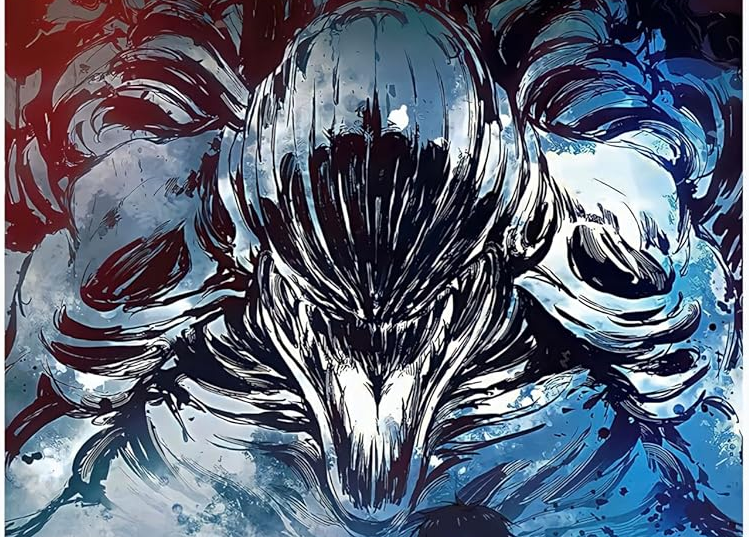
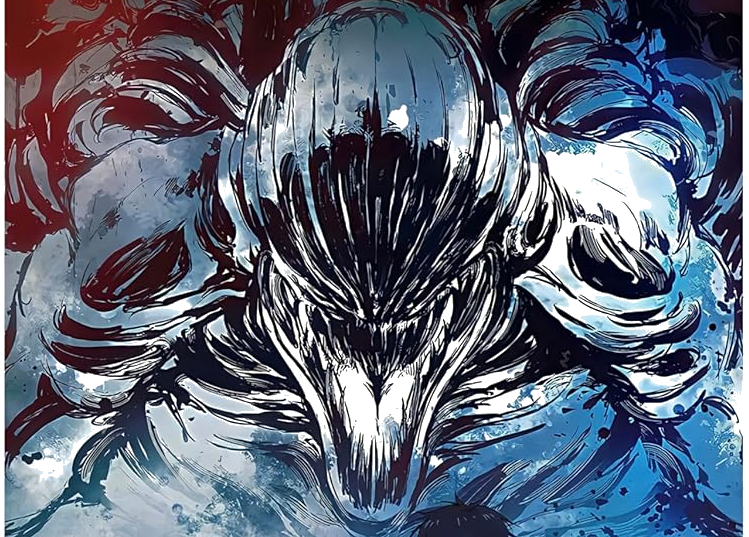
VFX: Process Rika image to remove white background and increase domain opacity (Build v46)

diff --git a/static/js/domain_expansion.js b/static/js/domain_expansion.js
@@ -381,9 +381,13 @@ class DomainExpansionGame {
                 drawH = h;
                 drawW = h * imgAspect;
             }
-            ctx.globalAlpha = 0.4 + 0.1 * Math.sin(this.yutaPhase); // Breathing opacity
+            ctx.globalAlpha = 0.6 + 0.1 * Math.sin(this.yutaPhase); // Increased opacity
             ctx.drawImage(this.rikaImg, (w - drawW) / 2, (h - drawH) / 2, drawW, drawH);
+            if (!this._rikaLogged) { console.log('👻 Rika Manifested!'); this._rikaLogged = true; }
             ctx.restore();
+        } else {
+            // Log once if not complete
+            if (!this._rikaLoadWarned) { console.warn('⚠ Rika image not yet loaded'); this._rikaLoadWarned = true; }
         }
 
         ctx.fillStyle = "rgba(180, 100, 255, 0.12)"; ctx.fillRect(0, 0, w, h);

diff --git a/index.html b/index.html
@@ -421,7 +421,7 @@
             <span>Resp: <span id="last-resp">NONE</span></span>
         </div>
         <div style="font-size: 9px; opacity: 0.4; margin-top: 5px; border-top: 1px solid rgba(255,255,255,0.1); padding-top: 5px; text-align: right;">
-            Build: 2026.05.12.v45
+            Build: 2026.05.12.v46
         </div>
     </div>
 
